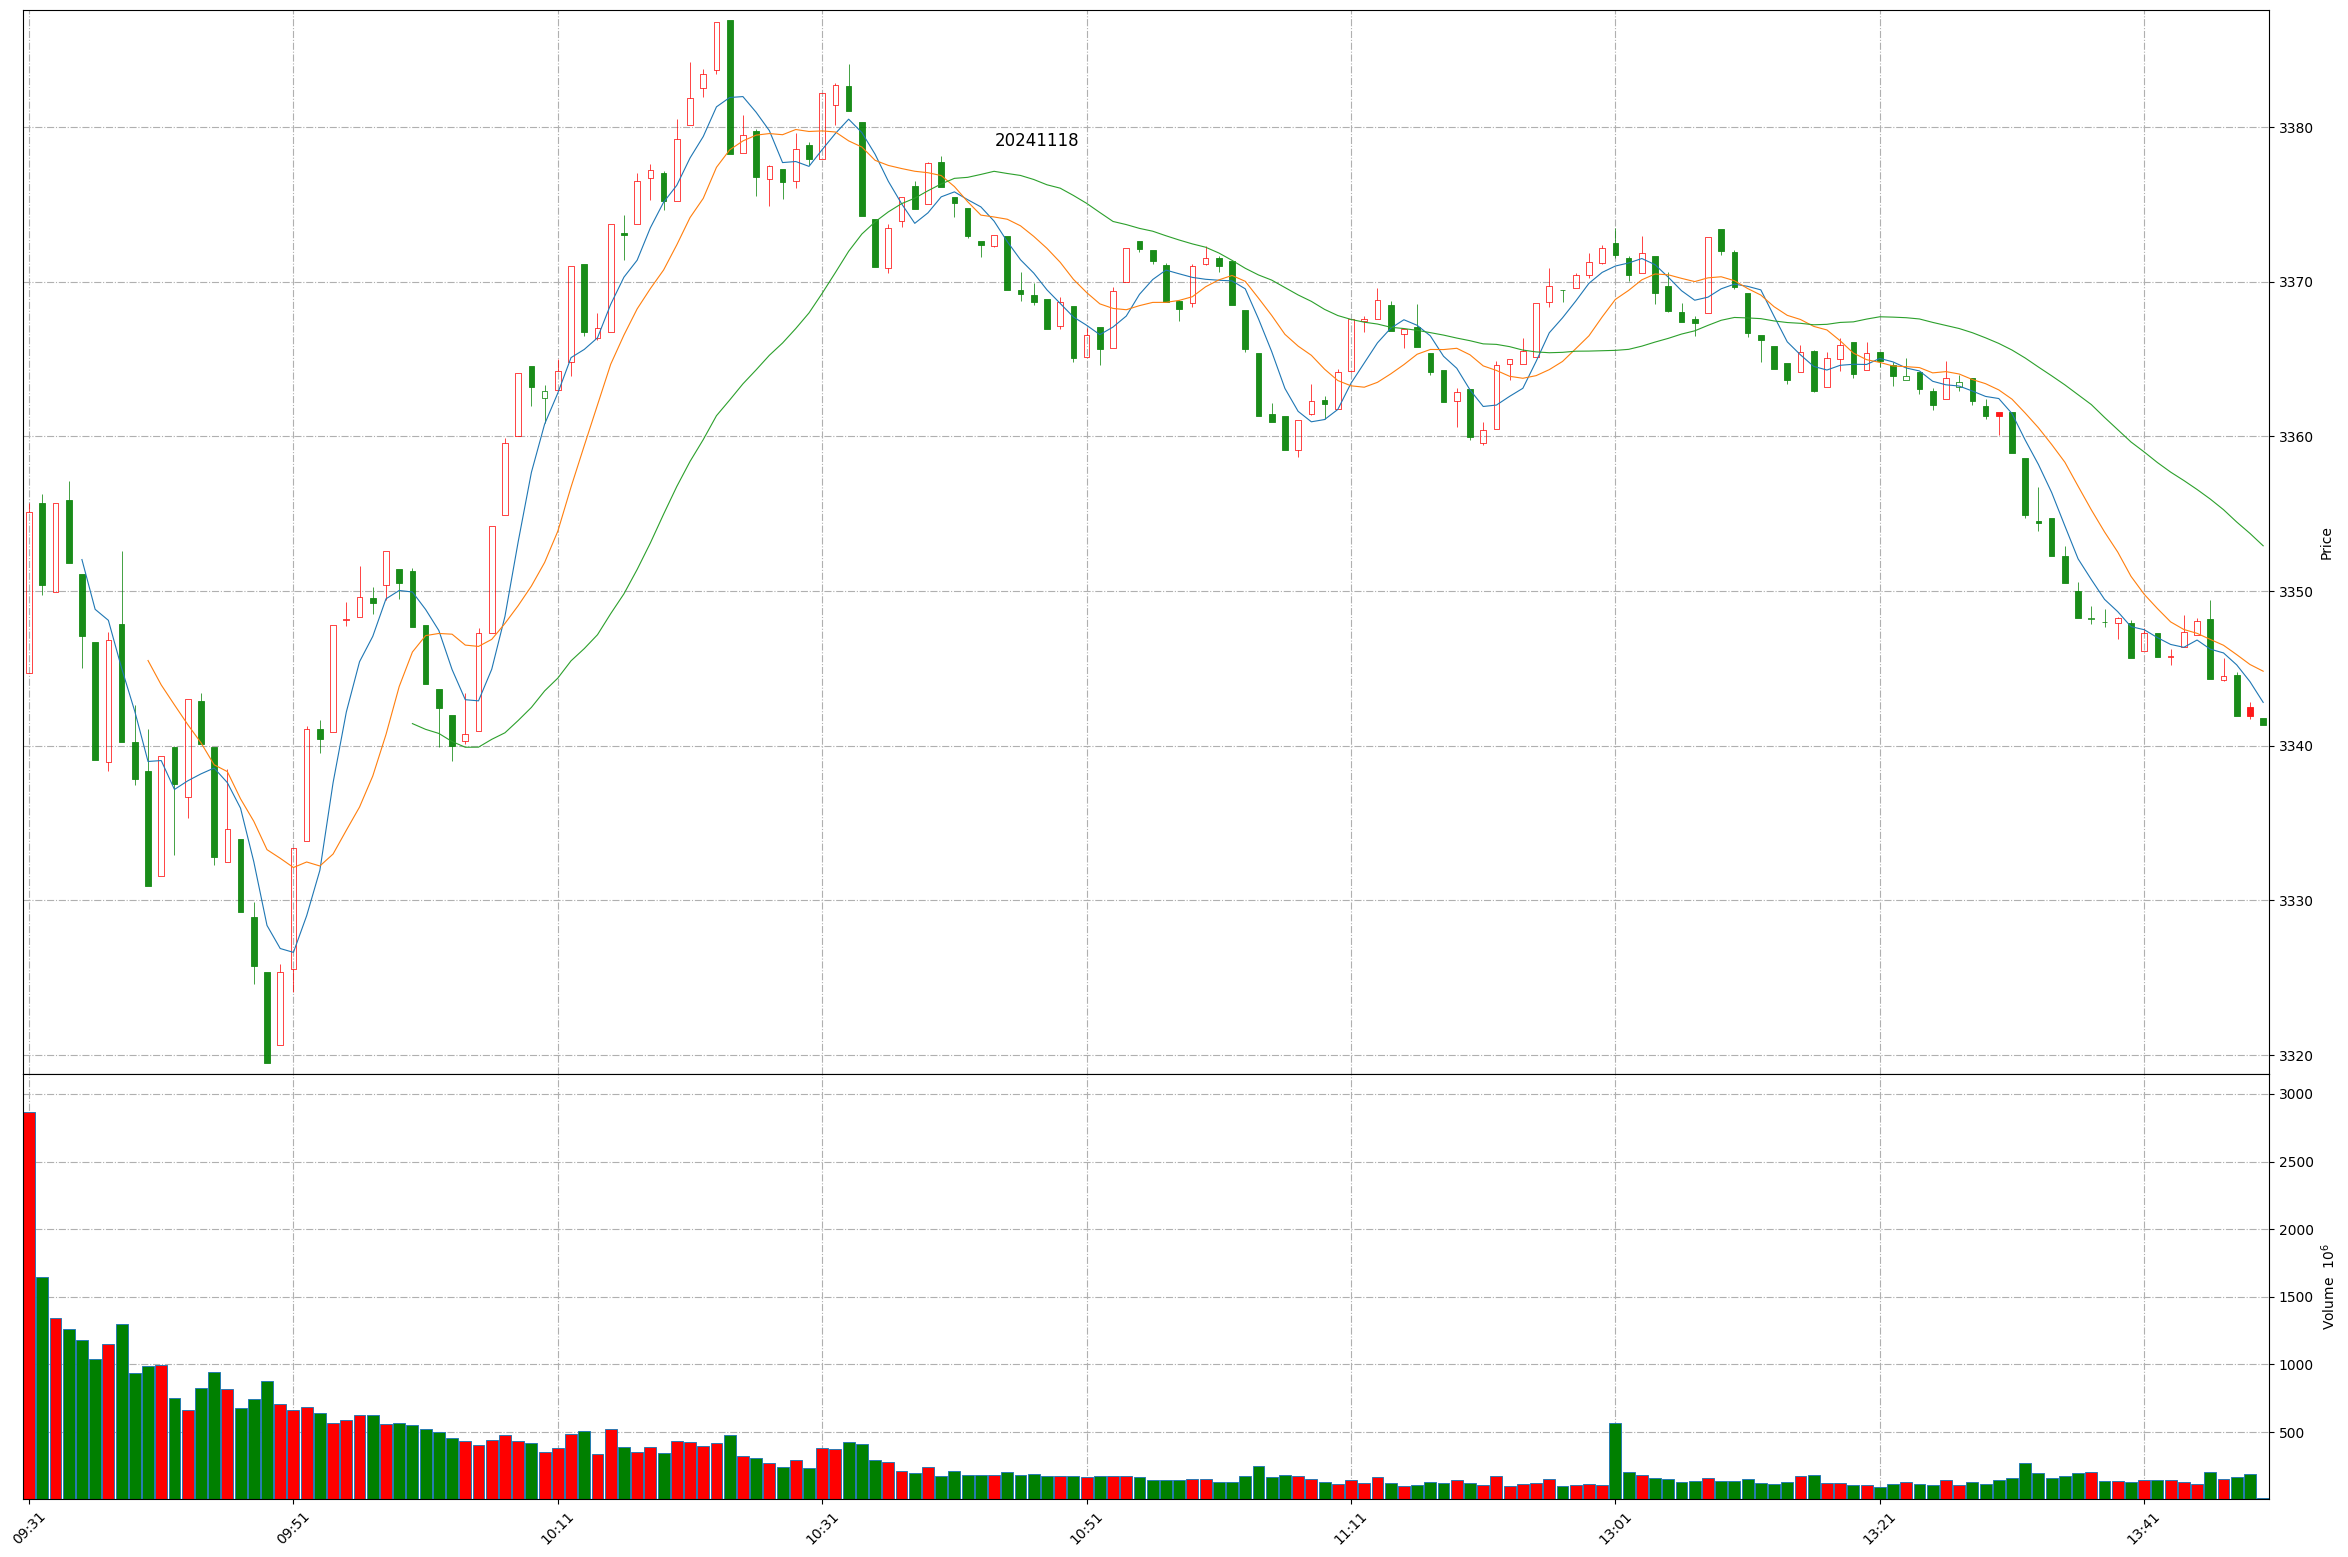
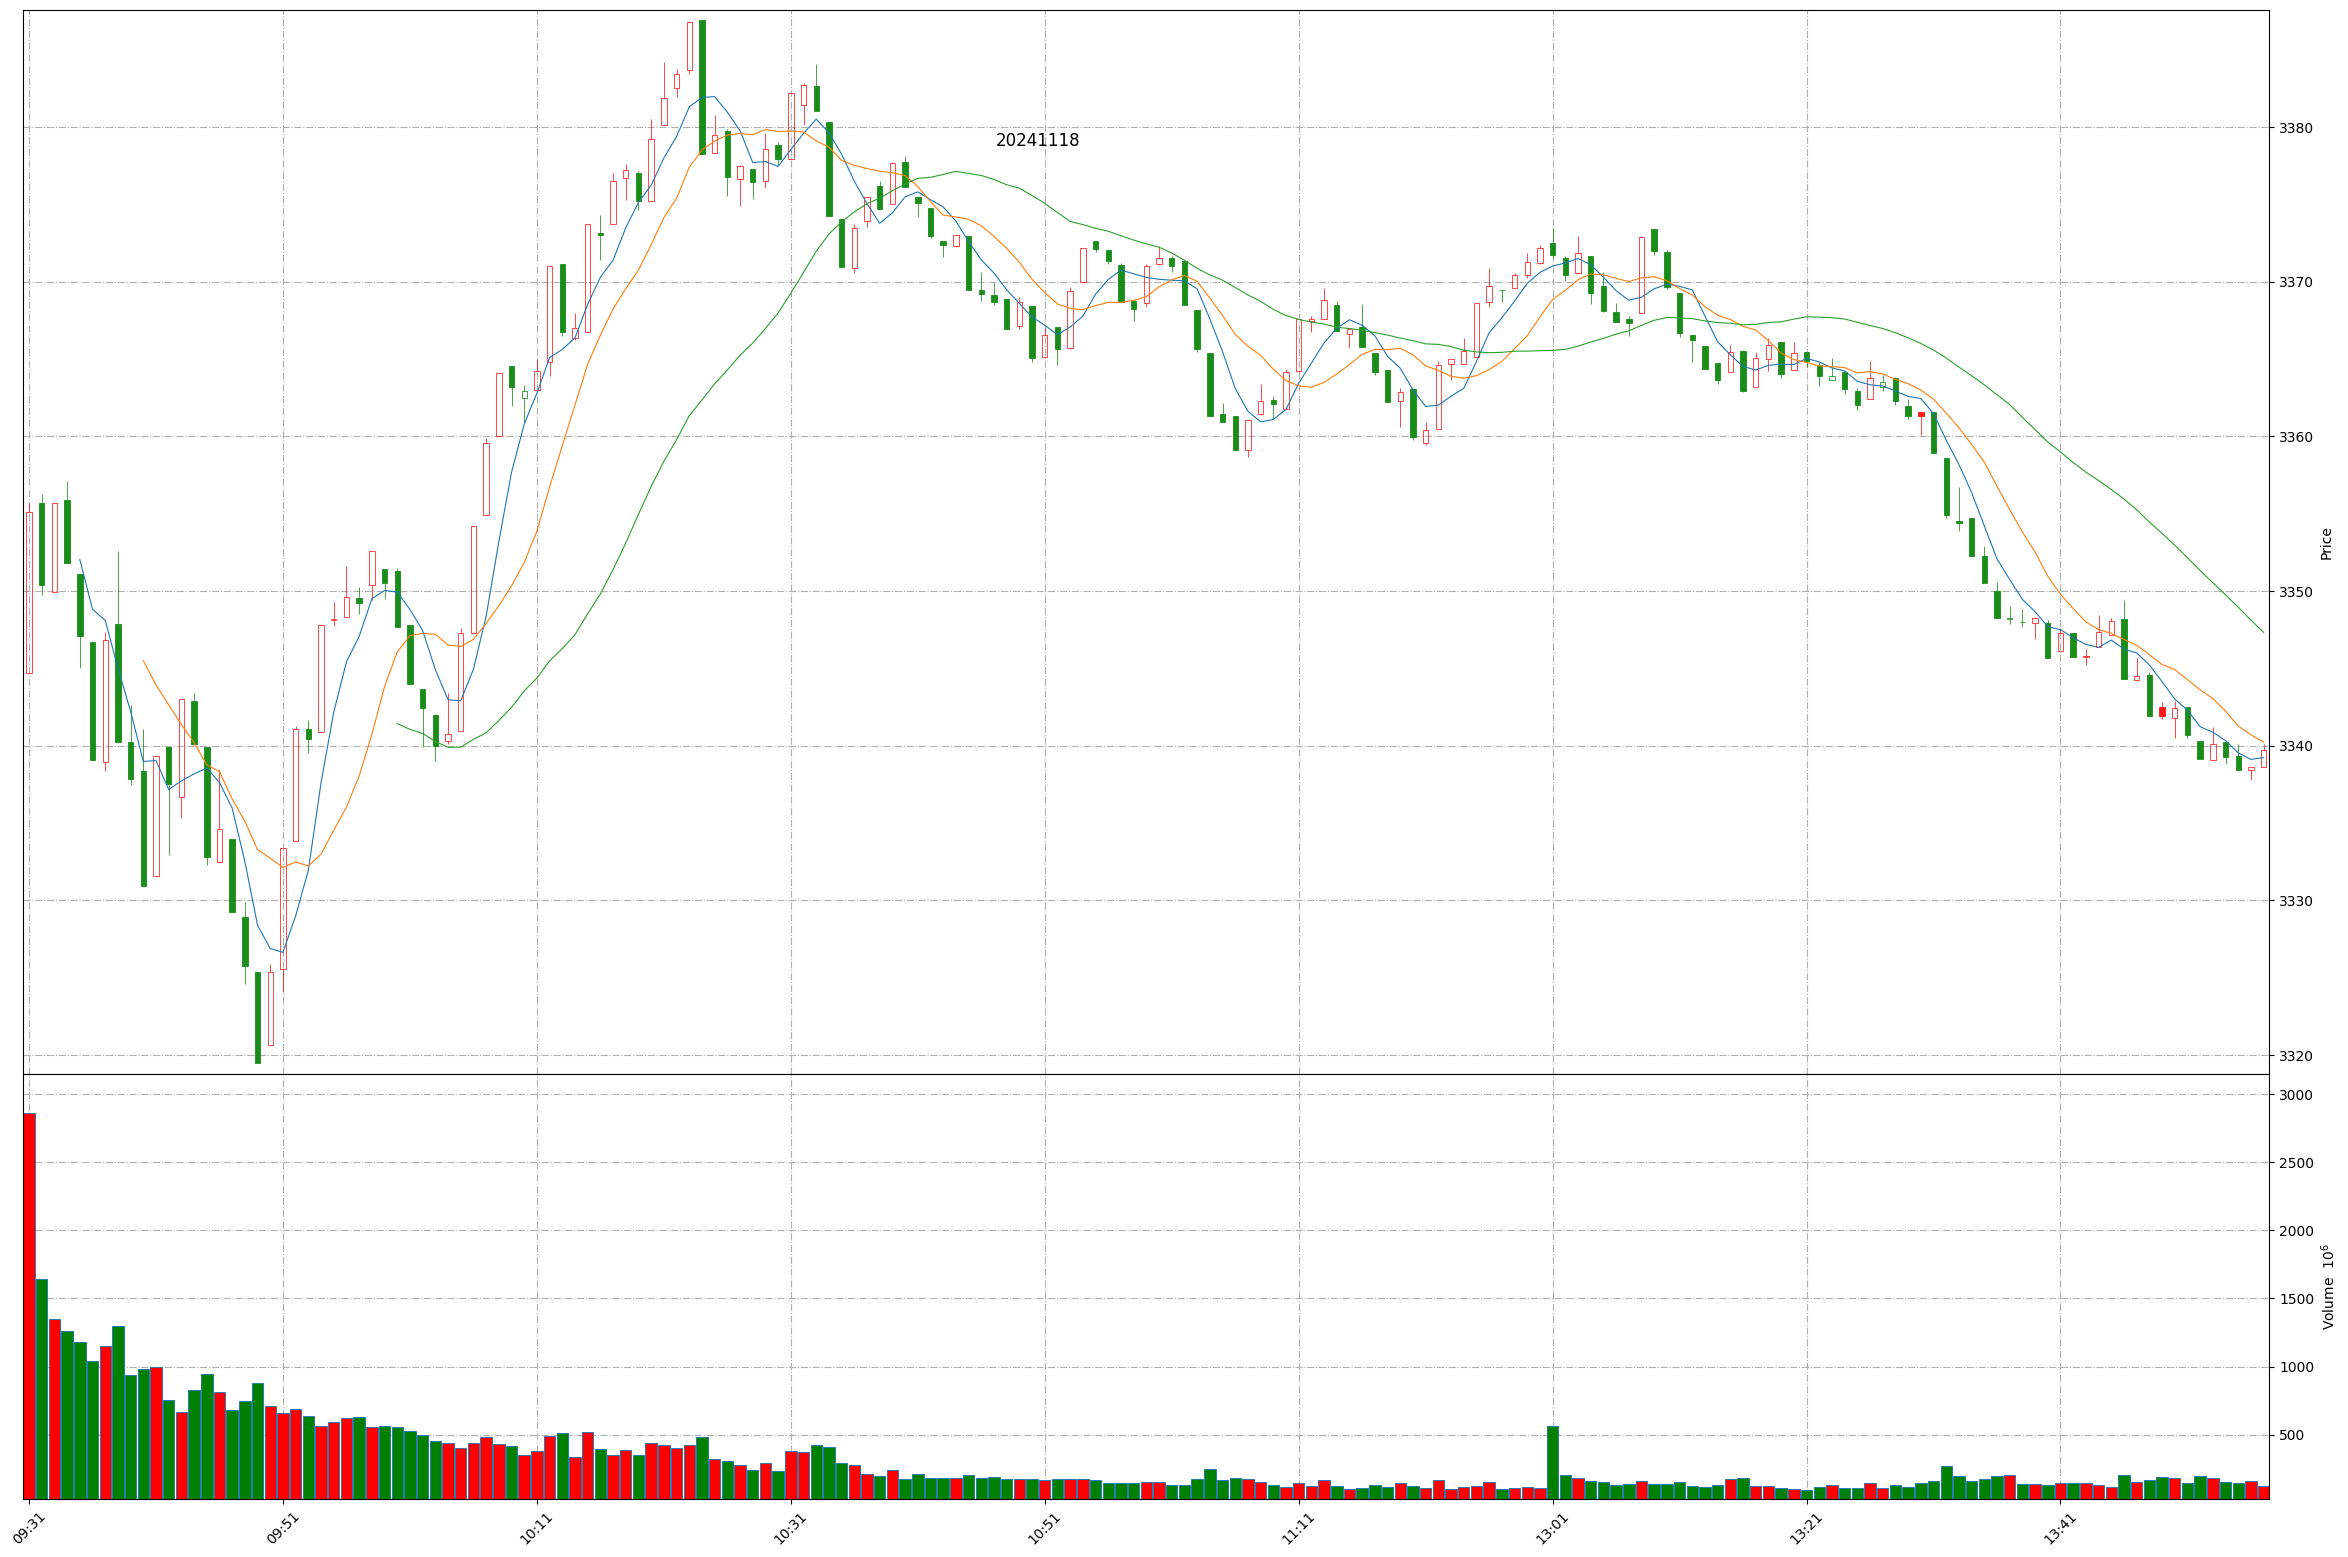
Github action update at 2024-11-18 13:56:51.

diff --git a/README.md b/README.md
@@ -1,11 +1,11 @@
 
 # Daily-A-share-market-quotes 每日 A 股指数（5min 更新）- 20241118
 
-### 上证指数 20241118 13:49
+### 上证指数 20241118 13:56
 ![](./fig/2024/11/20241118-sh000001.png)
 
-### 深证成指 20241118 13:49
+### 深证成指 20241118 13:56
 ![](./fig/2024/11/20241118-sz399001.png)
 
-### 北证50 20241118 13:49
+### 北证50 20241118 13:56
 ![](./fig/2024/11/20241118-bj899050.png)
